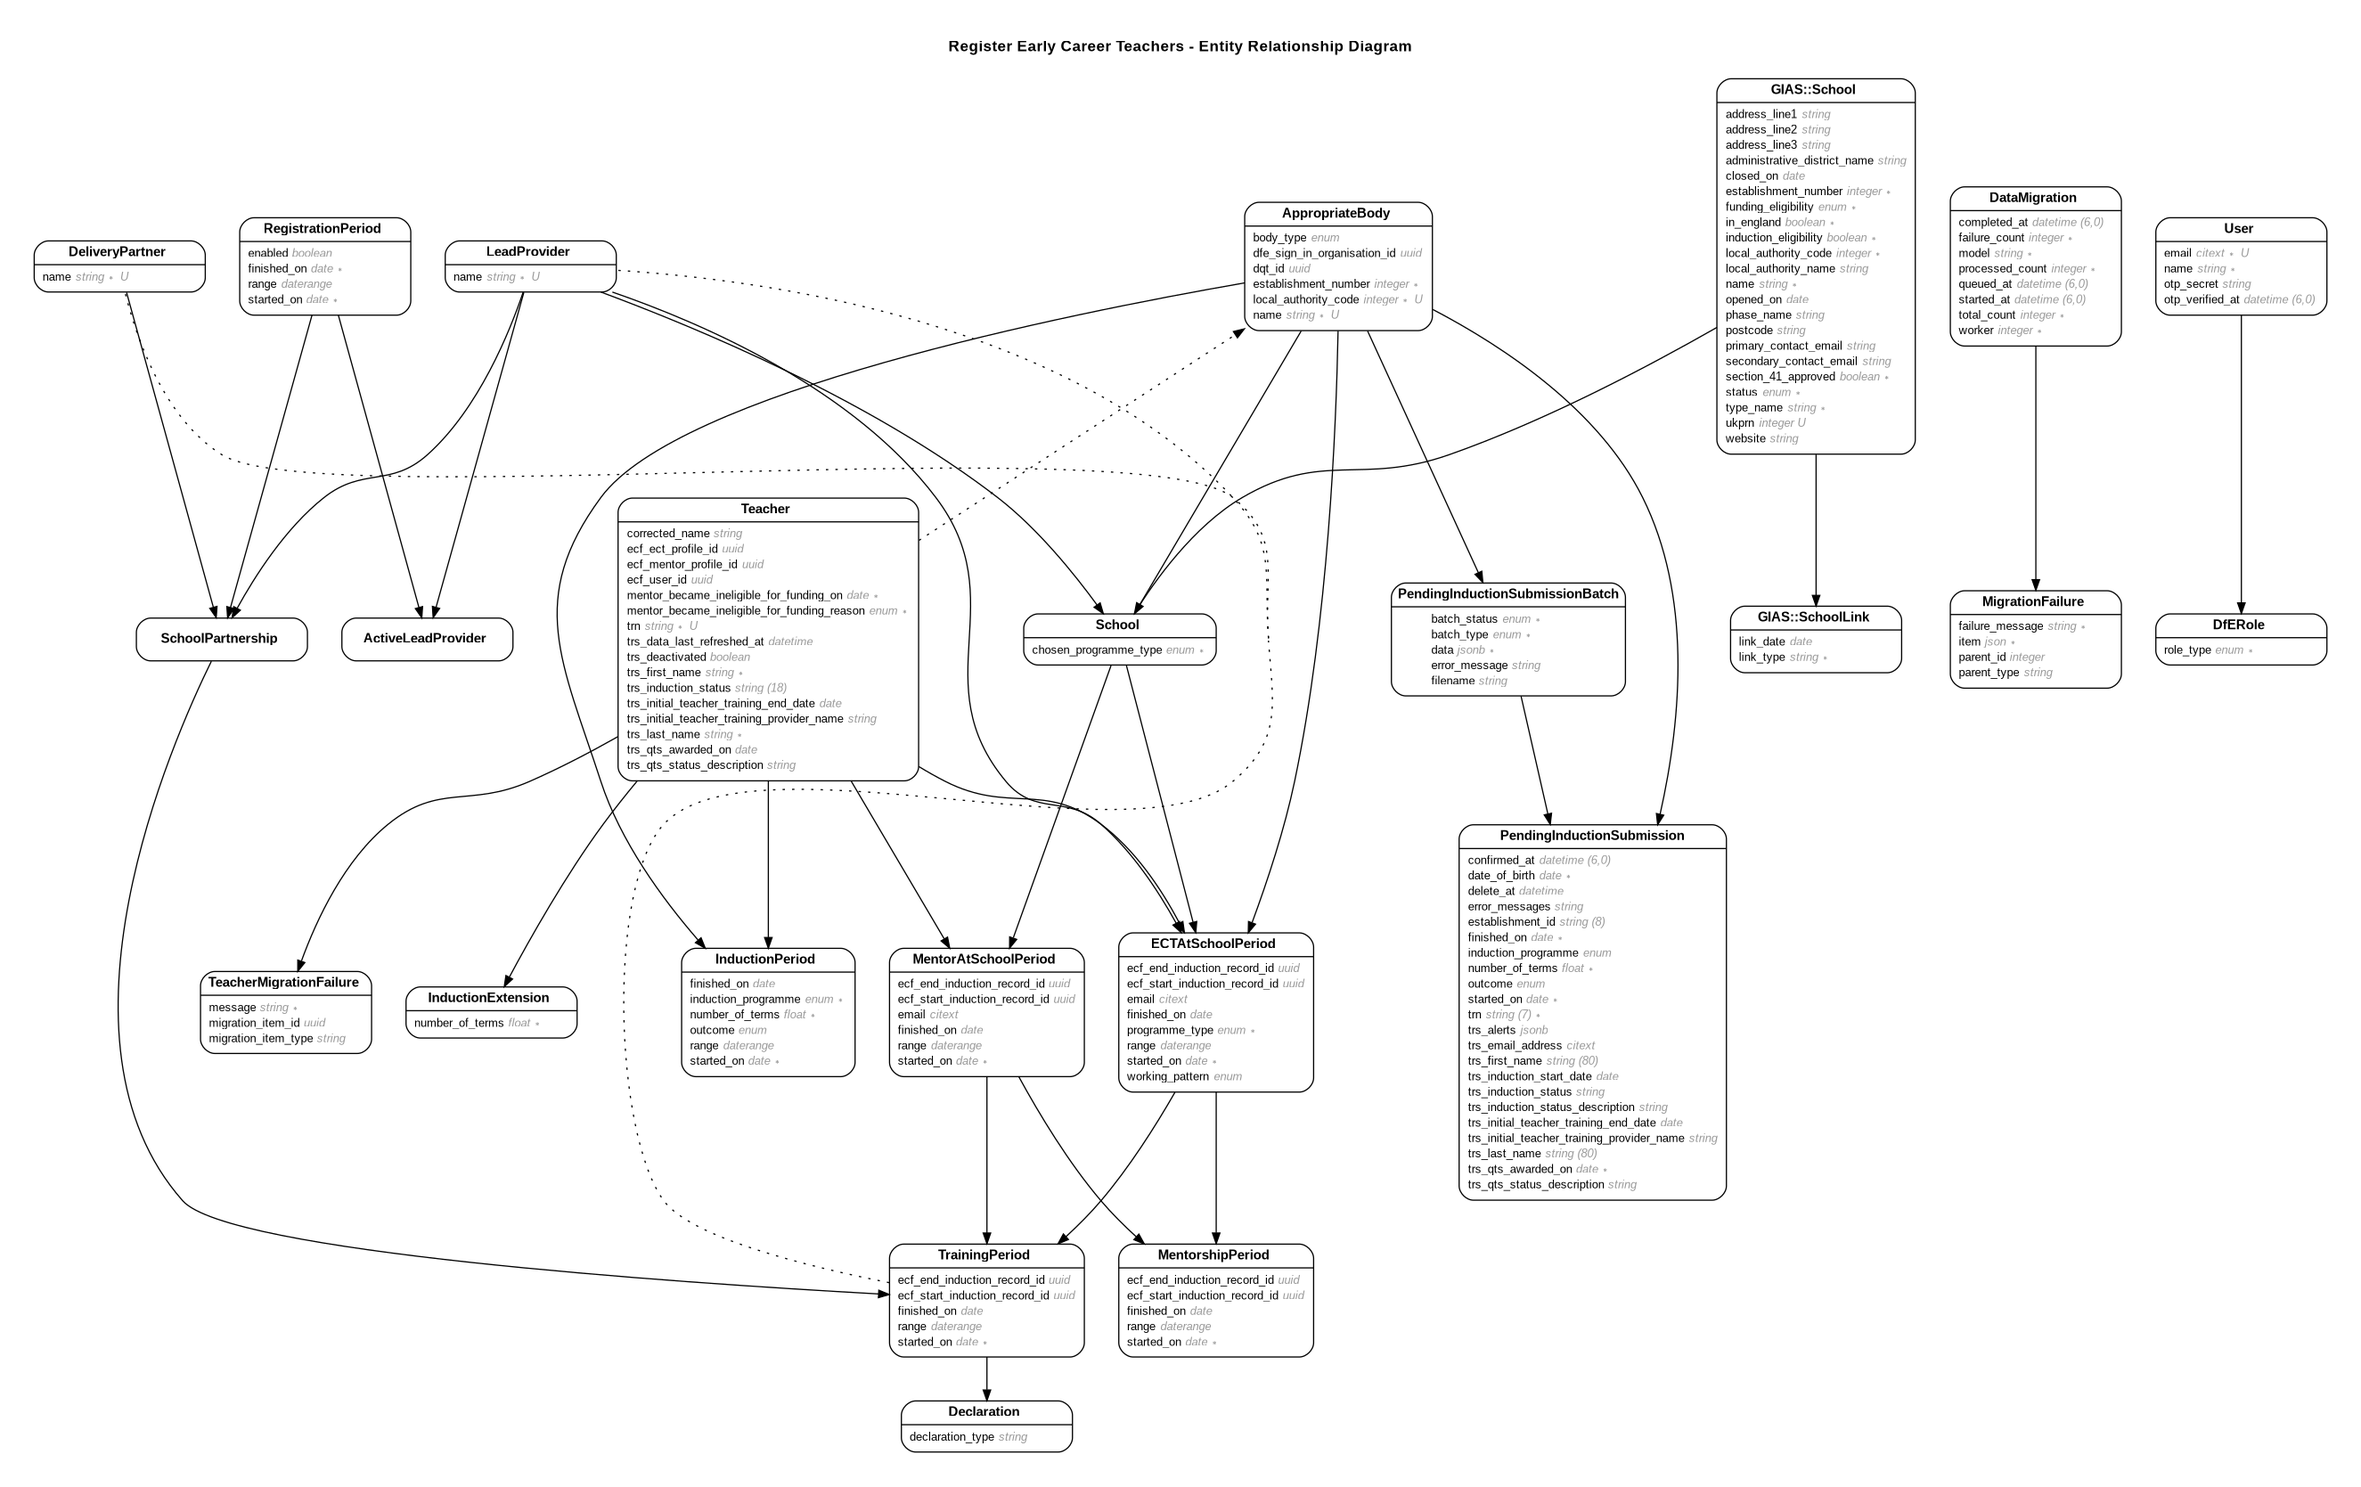
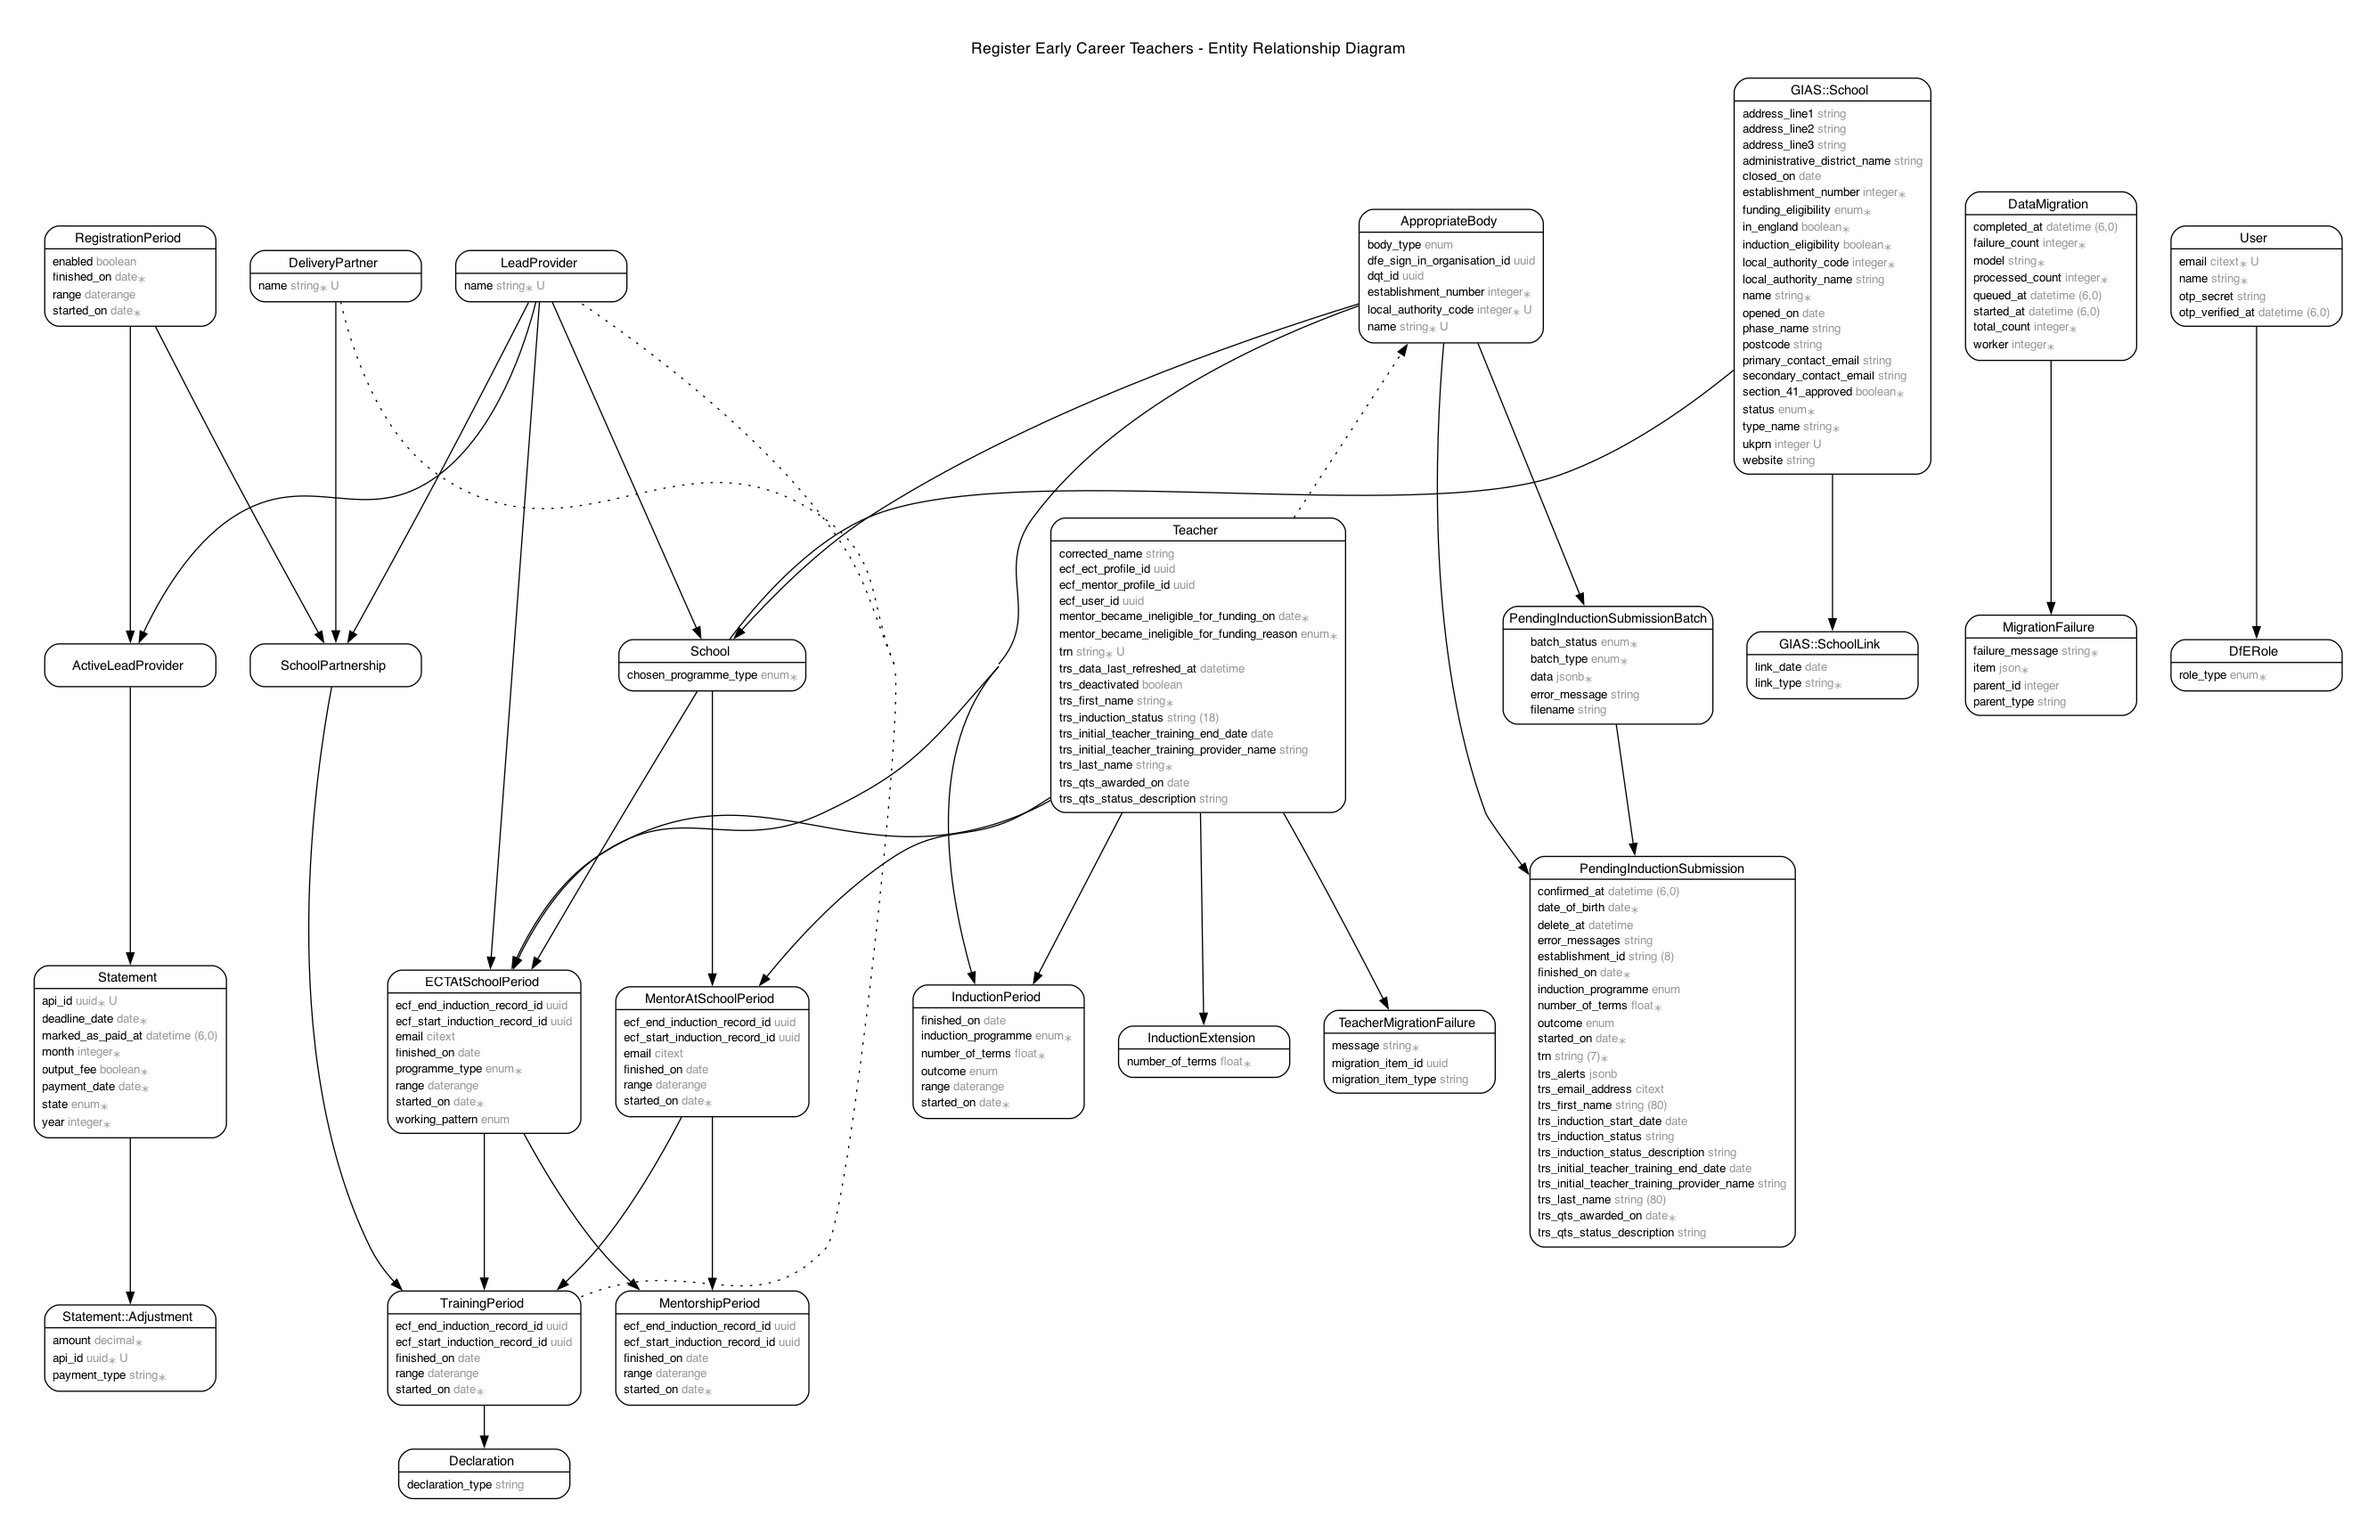
Add `Statement` and `Statement::Adjustment` models
Add the `Statement` and `Statement::Adjustment` models. The fields that are
relevant have been ported from ECF.

diff --git a/db/schema.rb b/db/schema.rb
@@ -30,6 +30,7 @@ ActiveRecord::Schema[8.0].define(version: 2025_05_15_154445) do
   create_enum "induction_programme", ["cip", "fip", "diy", "unknown", "pre_september_2021"]
   create_enum "mentor_became_ineligible_for_funding_reason", ["completed_declaration_received", "completed_during_early_roll_out", "started_not_completed"]
   create_enum "programme_type", ["provider_led", "school_led"]
+  create_enum "statement_states", ["open", "payable", "paid"]
   create_enum "working_pattern", ["part_time", "full_time"]
 
   create_table "active_lead_providers", force: :cascade do |t|
@@ -529,6 +530,31 @@ ActiveRecord::Schema[8.0].define(version: 2025_05_15_154445) do
     t.index ["key"], name: "index_solid_queue_semaphores_on_key", unique: true
   end
 
+  create_table "statement_adjustments", force: :cascade do |t|
+    t.bigint "statement_id", null: false
+    t.uuid "api_id", default: -> { "gen_random_uuid()" }, null: false
+    t.string "payment_type", null: false
+    t.decimal "amount", null: false
+    t.datetime "created_at", null: false
+    t.datetime "updated_at", null: false
+    t.index ["statement_id"], name: "index_statement_adjustments_on_statement_id"
+  end
+
+  create_table "statements", force: :cascade do |t|
+    t.bigint "active_lead_provider_id", null: false
+    t.uuid "api_id", default: -> { "gen_random_uuid()" }, null: false
+    t.integer "month", null: false
+    t.integer "year", null: false
+    t.date "deadline_date", null: false
+    t.date "payment_date", null: false
+    t.datetime "marked_as_paid_at"
+    t.boolean "output_fee", default: true, null: false
+    t.enum "state", default: "open", null: false, enum_type: "statement_states"
+    t.datetime "created_at", null: false
+    t.datetime "updated_at", null: false
+    t.index ["active_lead_provider_id"], name: "index_statements_on_active_lead_provider_id"
+  end
+
   create_table "teacher_migration_failures", force: :cascade do |t|
     t.bigint "teacher_id"
     t.string "message", null: false
@@ -638,6 +664,8 @@ ActiveRecord::Schema[8.0].define(version: 2025_05_15_154445) do
   add_foreign_key "solid_queue_ready_executions", "solid_queue_jobs", column: "job_id", on_delete: :cascade
   add_foreign_key "solid_queue_recurring_executions", "solid_queue_jobs", column: "job_id", on_delete: :cascade
   add_foreign_key "solid_queue_scheduled_executions", "solid_queue_jobs", column: "job_id", on_delete: :cascade
+  add_foreign_key "statement_adjustments", "statements"
+  add_foreign_key "statements", "active_lead_providers"
   add_foreign_key "teacher_migration_failures", "teachers"
   add_foreign_key "training_periods", "ect_at_school_periods"
   add_foreign_key "training_periods", "mentor_at_school_periods"

diff --git a/db/migrate/20250515142532_create_statements.rb b/db/migrate/20250515142532_create_statements.rb
@@ -1,0 +1,20 @@
+class CreateStatements < ActiveRecord::Migration[8.0]
+  def change
+    create_enum :statement_states, %w[open payable paid]
+
+    create_table :statements do |t|
+      t.references :active_lead_provider, null: false, foreign_key: true
+
+      t.uuid :api_id, null: false, default: -> { "gen_random_uuid()" }
+      t.integer :month, null: false
+      t.integer :year, null: false
+      t.date :deadline_date, null: false
+      t.date :payment_date, null: false
+      t.datetime :marked_as_paid_at
+      t.boolean :output_fee, default: true, null: false
+      t.enum :state, enum_type: "statement_states", default: "open", null: false
+
+      t.timestamps
+    end
+  end
+end

diff --git a/db/migrate/20250515142629_create_statement_adjustments.rb b/db/migrate/20250515142629_create_statement_adjustments.rb
@@ -1,0 +1,14 @@
+class CreateStatementAdjustments < ActiveRecord::Migration[8.0]
+  def change
+    create_table :statement_adjustments do |t|
+      t.references :statement, null: false, foreign_key: true
+
+      # Only needed for migrating data from ECF; can be removed later.
+      t.uuid :api_id, null: false, default: -> { "gen_random_uuid()" }
+      t.string :payment_type, null: false
+      t.decimal :amount, null: false
+
+      t.timestamps
+    end
+  end
+end

diff --git a/app/models/active_lead_provider.rb b/app/models/active_lead_provider.rb
@@ -1,6 +1,7 @@
 class ActiveLeadProvider < ApplicationRecord
   belongs_to :registration_period, inverse_of: :active_lead_providers
   belongs_to :lead_provider, inverse_of: :active_lead_providers
+  has_many :statements
 
   validates :registration_period_id,
             presence: { message: 'Choose a registration period' },

diff --git a/spec/models/active_lead_provider_spec.rb b/spec/models/active_lead_provider_spec.rb
@@ -2,6 +2,7 @@ describe ActiveLeadProvider do
   describe "associations" do
     it { is_expected.to belong_to(:registration_period) }
     it { is_expected.to belong_to(:lead_provider) }
+    it { is_expected.to have_many(:statements) }
   end
 
   describe "validations" do

diff --git a/spec/models/statement_spec.rb b/spec/models/statement_spec.rb
@@ -1,0 +1,6 @@
+describe Statement do
+  describe "associations" do
+    it { is_expected.to belong_to(:active_lead_provider) }
+    it { is_expected.to have_many(:adjustments) }
+  end
+end

diff --git a/spec/models/statement/adjustment_spec.rb b/spec/models/statement/adjustment_spec.rb
@@ -1,0 +1,5 @@
+describe Statement::Adjustment do
+  describe "associations" do
+    it { is_expected.to belong_to(:statement) }
+  end
+end

diff --git a/app/models/statement.rb b/app/models/statement.rb
@@ -1,0 +1,4 @@
+class Statement < ApplicationRecord
+  belongs_to :active_lead_provider
+  has_many :adjustments
+end

diff --git a/app/models/statement/adjustment.rb b/app/models/statement/adjustment.rb
@@ -1,0 +1,3 @@
+class Statement::Adjustment < ApplicationRecord
+  belongs_to :statement
+end
